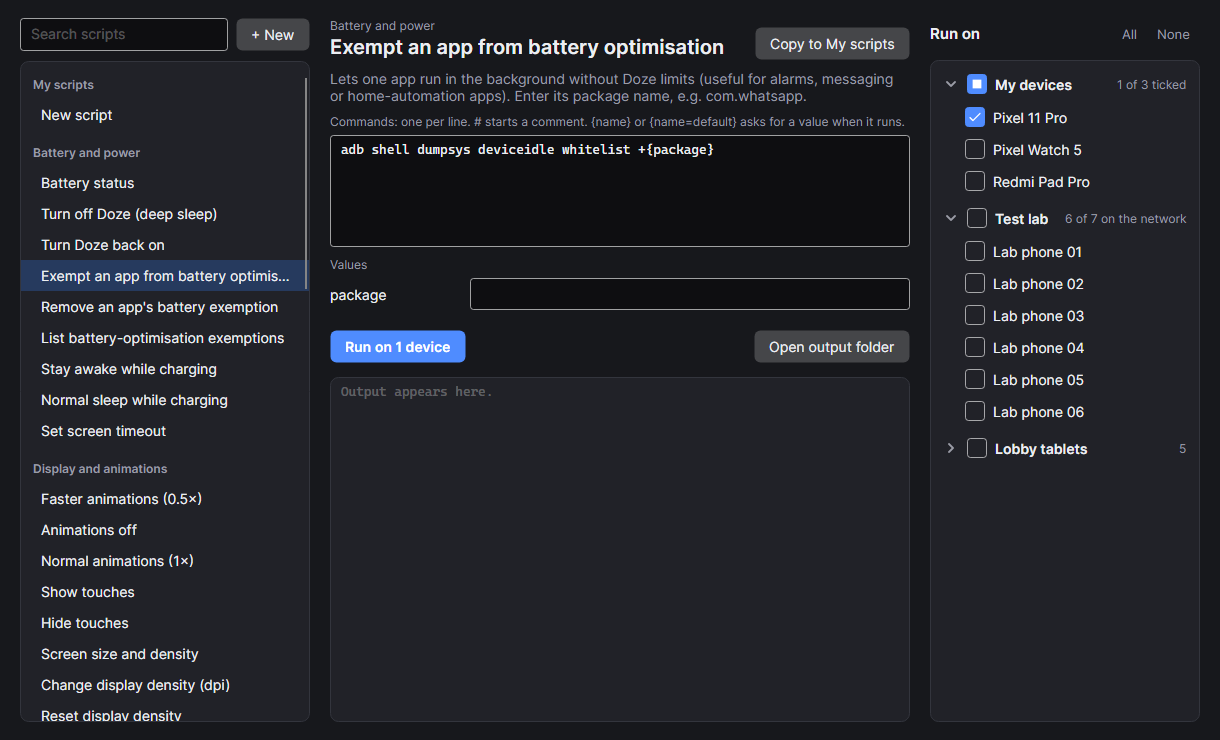
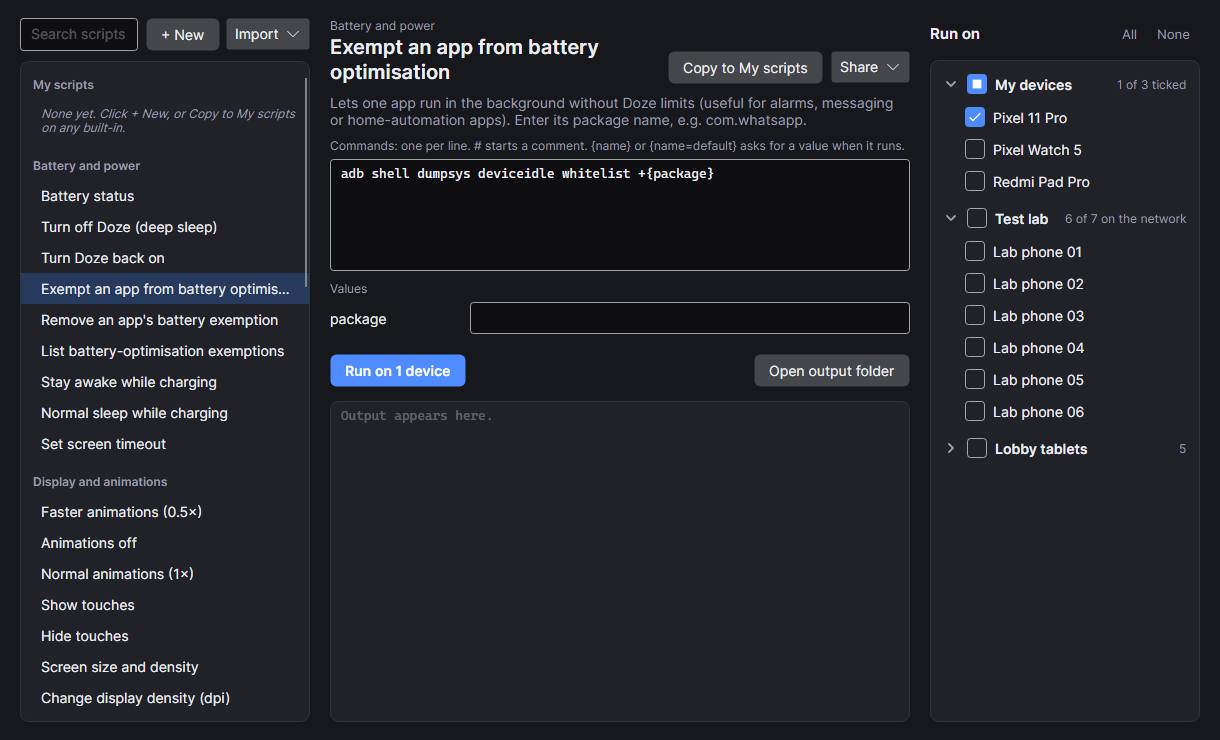
Update SECURITY.md, CONTRIBUTING.md, .gitignore and scripts screenshot
Syncs SECURITY.md with beta.2's automatic GitHub updates and local MCP server, adds all user data JSONs to .gitignore, updates CONTRIBUTING.md and bug_report.yml, and refreshes docs/images/scripts.png with Import/Share buttons.

Changed region(s): [[0.0, 0.0311, 0.7475, 0.9946], [0.5918, 0.4041, 0.7475, 0.5284], [0.0934, 0.0, 0.2492, 0.0932]]

diff --git a/SECURITY.md b/SECURITY.md
@@ -20,5 +20,7 @@ Include what's affected, how to reproduce it, and what an attacker could do with
 - **Unlock codes** are encrypted for your Windows account with DPAPI (on macOS the keychain, on Linux the Secret Service). Anyone who can run programs as your Windows user can decrypt them, as with saved browser passwords.
 - A code is only typed after Paneless confirms the device is locked with its lock screen in front. One failed try pauses auto-unlock for that device.
 - **Wireless debugging** (adb) gives full control of a device to every computer it's paired with. This is Android's design, not Paneless's. Pair only computers you trust, and remove old pairings in *Developer options › Wireless debugging › Paired devices*.
-- Paneless sends nothing to the internet. The one exception is update checks against a source you set yourself.
-- Scripts run adb commands with the device permissions adb has. Built-in scripts that change a lot ask before running. Review scripts from others before you run them.
+- Paneless talks to your devices locally over your own network. The only network traffic outside your LAN is:
+  - automatic update checks against GitHub Releases (can be turned off in *Settings › Updates*);
+  - optional AI assistants connected through MCP: Paneless listens on a local named pipe restricted to your Windows account, only exposes devices and permission levels you allow (Read by default, confirmation on for changes), and never shares unlock codes. Data an assistant reads becomes part of your conversation with that AI service.
+- Scripts run adb commands with the device permissions adb has. Built-in scripts that change a lot ask before running. Imported scripts are previewed first and ask before running; review scripts from others before you run them.

diff --git a/CONTRIBUTING.md b/CONTRIBUTING.md
@@ -25,8 +25,8 @@ Open an issue with the **Feature request** form. Describe the situation you're i
 2. Fork, then create a branch from `main`.
 3. Keep changes focused. Follow the existing style (see [docs/DEVELOPMENT.md](docs/DEVELOPMENT.md#style)).
 4. Check your change:
-   - `dotnet build` with no warnings;
-   - the smoke tests that need no device: `dotnet run --project tests/Paneless.Smoke -- --groups`;
+   - `dotnet build -c Release -warnaserror` with no warnings;
+   - the smoke tests that need no device: `--groups`, `--scripts-parse`, `--automation`, `--translations` and `--assistants` (`dotnet run --project tests/Paneless.Smoke -- --groups`);
    - for UI changes, a `--demo --snapshot` of the affected window;
    - if you have a device, the device tests that apply.
 5. Add a line to the top section of `CHANGELOG.md`.
